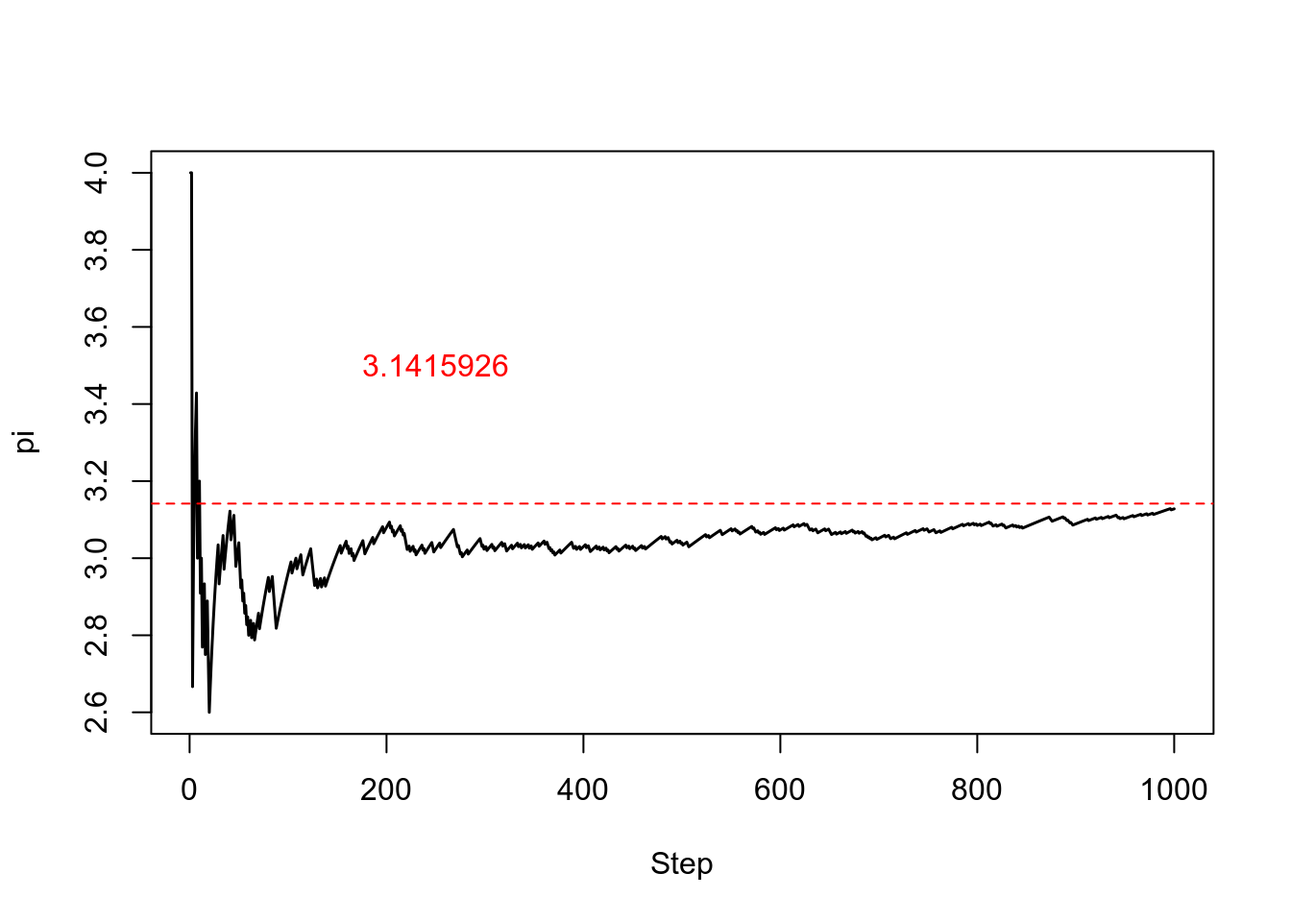
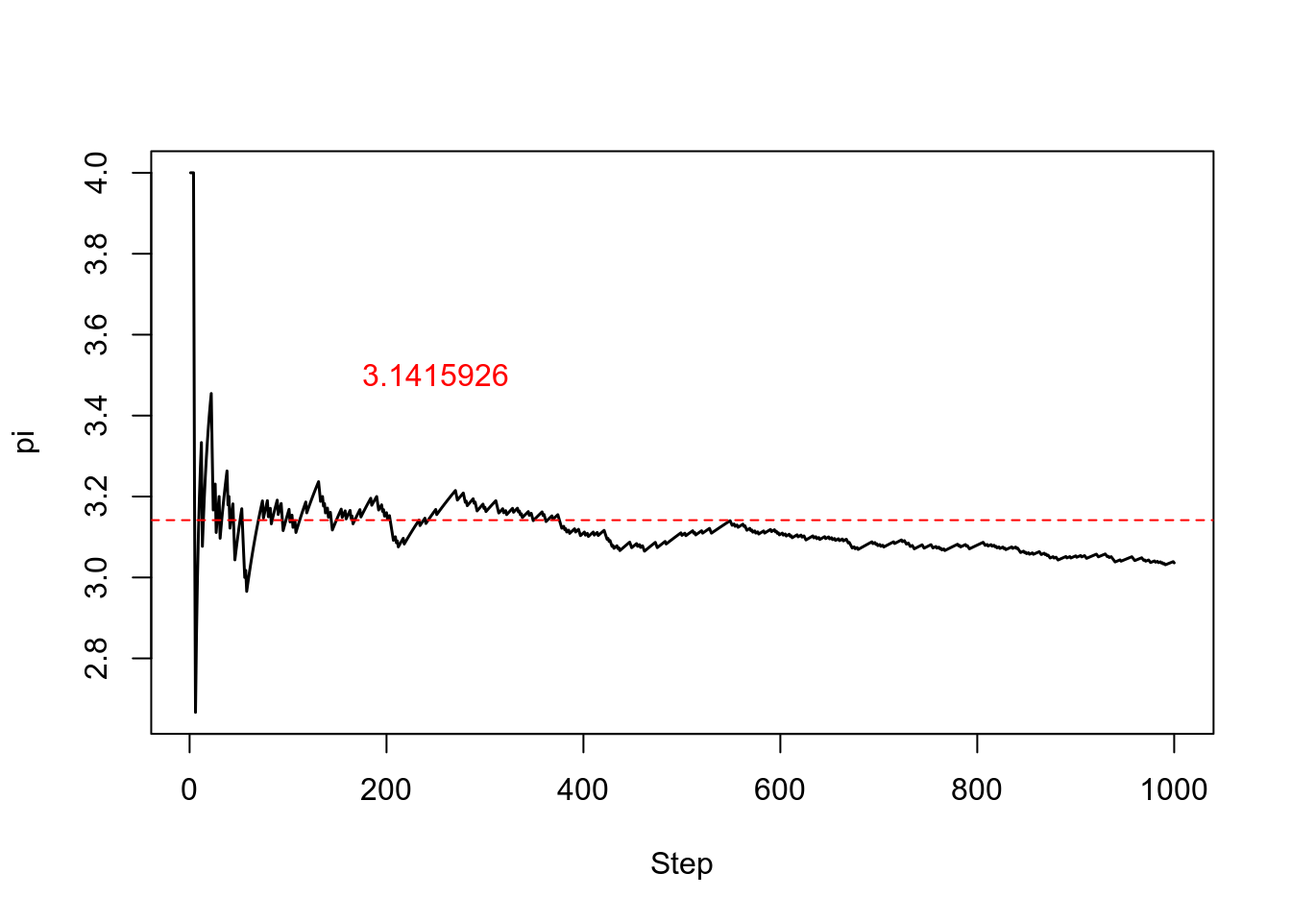
Update AS01 to avoid ambiguity.

diff --git a/docs/Section_02.html b/docs/Section_02.html
@@ -787,126 +787,126 @@ div.tocify {
 <a class="sourceLine" id="cb101-4" data-line-number="4">    <span class="kw">print</span>(<span class="kw">paste</span>(Daily_T,Hourly_T))</a>
 <a class="sourceLine" id="cb101-5" data-line-number="5">  }</a>
 <a class="sourceLine" id="cb101-6" data-line-number="6">}</a></code></pre></div>
-<pre><code>## [1] &quot;28 24.6748426553519&quot;
-## [1] &quot;28 22.9760693341376&quot;
-## [1] &quot;28 28.1668392788644&quot;
-## [1] &quot;28 24.6829324971358&quot;
-## [1] &quot;28 29.7757983186248&quot;
-## [1] &quot;28 22.1394675936212&quot;
-## [1] &quot;28 24.1820479194424&quot;
-## [1] &quot;28 22.7102929698775&quot;
-## [1] &quot;28 24.2689232048204&quot;
-## [1] &quot;28 29.7273757413843&quot;
-## [1] &quot;28 28.4814041481975&quot;
-## [1] &quot;28 30.8381319679711&quot;
-## [1] &quot;28 26.7968213473296&quot;
-## [1] &quot;28 32.6290605154618&quot;
-## [1] &quot;28 31.0473241153248&quot;
-## [1] &quot;28 17.8178765438713&quot;
-## [1] &quot;28 26.8503923194964&quot;
-## [1] &quot;28 26.6129683742051&quot;
-## [1] &quot;28 24.3036329344183&quot;
-## [1] &quot;28 28.6087747062707&quot;
-## [1] &quot;28 28.6791264028529&quot;
-## [1] &quot;28 26.6940887449461&quot;
-## [1] &quot;28 24.3523082033908&quot;
-## [1] &quot;28 34.1343566762418&quot;
-## [1] &quot;27 28.4058829001241&quot;
-## [1] &quot;27 29.5544922101698&quot;
-## [1] &quot;27 29.5984627835436&quot;
-## [1] &quot;27 28.2448822396052&quot;
-## [1] &quot;27 26.7516599820223&quot;
-## [1] &quot;27 18.5139039824796&quot;
-## [1] &quot;27 32.3990865590278&quot;
-## [1] &quot;27 37.2973810862669&quot;
-## [1] &quot;27 36.29726933232&quot;
-## [1] &quot;27 32.529717107269&quot;
-## [1] &quot;27 18.5966021782224&quot;
-## [1] &quot;27 17.5570436818532&quot;
-## [1] &quot;27 24.8168687196831&quot;
-## [1] &quot;27 28.4081215680623&quot;
-## [1] &quot;27 30.0752058033662&quot;
-## [1] &quot;27 19.0486279825942&quot;
-## [1] &quot;27 23.8308318937906&quot;
-## [1] &quot;27 23.0096504954306&quot;
-## [1] &quot;27 30.2079908629194&quot;
-## [1] &quot;27 42.2036996178281&quot;
-## [1] &quot;27 31.6874638433255&quot;
-## [1] &quot;27 23.3757211920033&quot;
-## [1] &quot;27 22.2492012353042&quot;
-## [1] &quot;27 36.5132641049091&quot;
-## [1] &quot;28 33.4273399548902&quot;
-## [1] &quot;28 22.8727731019217&quot;
-## [1] &quot;28 18.5495469869752&quot;
-## [1] &quot;28 33.3796695987491&quot;
-## [1] &quot;28 24.2963211190113&quot;
-## [1] &quot;28 24.6434628363984&quot;
-## [1] &quot;28 33.4164615493461&quot;
-## [1] &quot;28 33.4976786771971&quot;
-## [1] &quot;28 29.982513599848&quot;
-## [1] &quot;28 22.6906707084625&quot;
-## [1] &quot;28 25.4752659513245&quot;
-## [1] &quot;28 24.4757335877513&quot;
-## [1] &quot;28 33.1331815583744&quot;
-## [1] &quot;28 22.1406958511202&quot;
-## [1] &quot;28 24.8907138406681&quot;
-## [1] &quot;28 24.6173693440048&quot;
-## [1] &quot;28 28.5034989318076&quot;
-## [1] &quot;28 36.2423498235031&quot;
-## [1] &quot;28 18.0162228358158&quot;
-## [1] &quot;28 28.2563525092646&quot;
-## [1] &quot;28 24.5093187242121&quot;
-## [1] &quot;28 28.0852273211659&quot;
-## [1] &quot;28 27.6908677292802&quot;
-## [1] &quot;28 29.3674958477796&quot;
-## [1] &quot;26 24.8147408614787&quot;
-## [1] &quot;26 29.8019450697114&quot;
-## [1] &quot;26 26.6431852209115&quot;
-## [1] &quot;26 23.7854078799578&quot;
-## [1] &quot;26 19.7615886099545&quot;
-## [1] &quot;26 30.2736348046912&quot;
-## [1] &quot;26 24.1359341006909&quot;
-## [1] &quot;26 23.0636244215911&quot;
-## [1] &quot;26 28.5421929889363&quot;
-## [1] &quot;26 21.5571819032698&quot;
-## [1] &quot;26 27.6843964038016&quot;
-## [1] &quot;26 13.4405915029052&quot;
-## [1] &quot;26 21.9131351640834&quot;
-## [1] &quot;26 34.6336275459184&quot;
-## [1] &quot;26 37.2107505731586&quot;
-## [1] &quot;26 30.1847426869357&quot;
-## [1] &quot;26 26.7107860646127&quot;
-## [1] &quot;26 21.8941098756902&quot;
-## [1] &quot;26 23.7087758808354&quot;
-## [1] &quot;26 30.5485933541258&quot;
-## [1] &quot;26 23.0866042896505&quot;
-## [1] &quot;26 24.4033466224744&quot;
-## [1] &quot;26 19.2725006440214&quot;
-## [1] &quot;26 17.7636790167569&quot;
-## [1] &quot;27 22.4565542740719&quot;
-## [1] &quot;27 29.1812539937702&quot;
-## [1] &quot;27 29.9817319457167&quot;
-## [1] &quot;27 28.8909937193477&quot;
-## [1] &quot;27 24.7202551580626&quot;
-## [1] &quot;27 24.2748894318419&quot;
-## [1] &quot;27 21.3401103954107&quot;
-## [1] &quot;27 28.5146083884275&quot;
-## [1] &quot;27 23.0050943379477&quot;
-## [1] &quot;27 24.7899110044655&quot;
-## [1] &quot;27 21.6698963945238&quot;
-## [1] &quot;27 20.7963045388319&quot;
-## [1] &quot;27 27.574858768277&quot;
-## [1] &quot;27 27.3012149126371&quot;
-## [1] &quot;27 31.3321920586931&quot;
-## [1] &quot;27 28.6431556480933&quot;
-## [1] &quot;27 20.020147307677&quot;
-## [1] &quot;27 21.3171993774541&quot;
-## [1] &quot;27 24.1002024463396&quot;
-## [1] &quot;27 18.687283359045&quot;
-## [1] &quot;27 29.7290389267263&quot;
-## [1] &quot;27 29.3756646234934&quot;
-## [1] &quot;27 35.4128152822396&quot;
-## [1] &quot;27 20.4043393921517&quot;</code></pre>
+<pre><code>## [1] &quot;28 40.7589551560254&quot;
+## [1] &quot;28 31.774615150442&quot;
+## [1] &quot;28 18.0949197969618&quot;
+## [1] &quot;28 28.1942835828804&quot;
+## [1] &quot;28 19.804028639058&quot;
+## [1] &quot;28 29.4662902622486&quot;
+## [1] &quot;28 39.4598932088304&quot;
+## [1] &quot;28 33.7288811493609&quot;
+## [1] &quot;28 25.5558521090769&quot;
+## [1] &quot;28 23.4081581832236&quot;
+## [1] &quot;28 29.1983852403656&quot;
+## [1] &quot;28 20.0817482845498&quot;
+## [1] &quot;28 31.774975893687&quot;
+## [1] &quot;28 28.8538375183689&quot;
+## [1] &quot;28 26.9829320866638&quot;
+## [1] &quot;28 38.4506100131821&quot;
+## [1] &quot;28 31.2668587856441&quot;
+## [1] &quot;28 36.6454669868765&quot;
+## [1] &quot;28 34.5733461244075&quot;
+## [1] &quot;28 18.8477977658143&quot;
+## [1] &quot;28 41.2872097360636&quot;
+## [1] &quot;28 26.3640590334181&quot;
+## [1] &quot;28 18.9587978407791&quot;
+## [1] &quot;28 21.9732875544527&quot;
+## [1] &quot;27 27.8994501618399&quot;
+## [1] &quot;27 18.4274823880049&quot;
+## [1] &quot;27 17.487437027998&quot;
+## [1] &quot;27 29.1566220497035&quot;
+## [1] &quot;27 24.3864966186695&quot;
+## [1] &quot;27 30.6312328582105&quot;
+## [1] &quot;27 25.5633098161982&quot;
+## [1] &quot;27 28.3565032535012&quot;
+## [1] &quot;27 22.9111423558042&quot;
+## [1] &quot;27 37.0104290570566&quot;
+## [1] &quot;27 24.7248381984514&quot;
+## [1] &quot;27 27.5481189653534&quot;
+## [1] &quot;27 30.5327020938654&quot;
+## [1] &quot;27 23.5399345272812&quot;
+## [1] &quot;27 26.4523185352965&quot;
+## [1] &quot;27 25.1287921427691&quot;
+## [1] &quot;27 30.576745220784&quot;
+## [1] &quot;27 27.7208460890087&quot;
+## [1] &quot;27 28.3860313272459&quot;
+## [1] &quot;27 22.3716969655068&quot;
+## [1] &quot;27 29.2017516181573&quot;
+## [1] &quot;27 25.6909429386729&quot;
+## [1] &quot;27 16.779136398876&quot;
+## [1] &quot;27 32.2362306548539&quot;
+## [1] &quot;28 30.4989968243666&quot;
+## [1] &quot;28 37.689196380333&quot;
+## [1] &quot;28 31.3016056245316&quot;
+## [1] &quot;28 20.0093734532773&quot;
+## [1] &quot;28 26.9704176748697&quot;
+## [1] &quot;28 30.1193039703216&quot;
+## [1] &quot;28 28.4723046872677&quot;
+## [1] &quot;28 26.5637823913892&quot;
+## [1] &quot;28 37.7782792758438&quot;
+## [1] &quot;28 33.0132099533378&quot;
+## [1] &quot;28 29.6482378474295&quot;
+## [1] &quot;28 16.1194381569752&quot;
+## [1] &quot;28 21.8613217535879&quot;
+## [1] &quot;28 25.3490193460458&quot;
+## [1] &quot;28 34.3247521426383&quot;
+## [1] &quot;28 11.8291705076343&quot;
+## [1] &quot;28 25.0916998662451&quot;
+## [1] &quot;28 28.5094802988344&quot;
+## [1] &quot;28 32.9073404950099&quot;
+## [1] &quot;28 31.3966589168912&quot;
+## [1] &quot;28 26.2302070460784&quot;
+## [1] &quot;28 21.9869933901705&quot;
+## [1] &quot;28 23.3172915224961&quot;
+## [1] &quot;28 24.3762357939405&quot;
+## [1] &quot;26 26.6964401195701&quot;
+## [1] &quot;26 22.071833499076&quot;
+## [1] &quot;26 25.2526523327834&quot;
+## [1] &quot;26 25.731171086427&quot;
+## [1] &quot;26 32.1713414572198&quot;
+## [1] &quot;26 30.5547262095795&quot;
+## [1] &quot;26 29.9414544306396&quot;
+## [1] &quot;26 20.1856275907956&quot;
+## [1] &quot;26 24.9049311722464&quot;
+## [1] &quot;26 33.618922458823&quot;
+## [1] &quot;26 26.621086763811&quot;
+## [1] &quot;26 20.8803080940772&quot;
+## [1] &quot;26 29.556871975238&quot;
+## [1] &quot;26 31.8292816727826&quot;
+## [1] &quot;26 32.2553838694461&quot;
+## [1] &quot;26 17.7914797029011&quot;
+## [1] &quot;26 27.9390149189956&quot;
+## [1] &quot;26 26.4795260442578&quot;
+## [1] &quot;26 26.2531236280767&quot;
+## [1] &quot;26 31.337010395406&quot;
+## [1] &quot;26 22.8950674555426&quot;
+## [1] &quot;26 27.4303573453362&quot;
+## [1] &quot;26 36.3650995882546&quot;
+## [1] &quot;26 22.8170384934694&quot;
+## [1] &quot;27 26.662250919257&quot;
+## [1] &quot;27 33.6004508819266&quot;
+## [1] &quot;27 30.3039194689821&quot;
+## [1] &quot;27 26.446853317052&quot;
+## [1] &quot;27 29.3601989403985&quot;
+## [1] &quot;27 33.5603834910526&quot;
+## [1] &quot;27 29.4880395275099&quot;
+## [1] &quot;27 33.4909610227258&quot;
+## [1] &quot;27 30.3191306992055&quot;
+## [1] &quot;27 24.8579870944271&quot;
+## [1] &quot;27 20.187721405541&quot;
+## [1] &quot;27 28.5488767087359&quot;
+## [1] &quot;27 28.3862344452235&quot;
+## [1] &quot;27 25.866476004331&quot;
+## [1] &quot;27 15.9563150880982&quot;
+## [1] &quot;27 25.5495362224263&quot;
+## [1] &quot;27 34.8455641121824&quot;
+## [1] &quot;27 27.7115383346833&quot;
+## [1] &quot;27 35.5430651000855&quot;
+## [1] &quot;27 30.3856507008125&quot;
+## [1] &quot;27 30.0093475511949&quot;
+## [1] &quot;27 14.7242187252879&quot;
+## [1] &quot;27 21.9392107260631&quot;
+## [1] &quot;27 37.5508143868809&quot;</code></pre>
 <p>Here at each <code>Hour</code> we use the <code>rnorm()</code> function to generate <code>1</code> random Gaussian sample with a mean of <code>Daily_T</code> and a standard deviation of <code>5</code>.</p>
 <p>We notice in the output that when the first index (<code>Daily_T</code>) is set to <code>28</code>, the second index (<code>Hour</code>) iterates through its full set of indices. Once the indices of <code>Hour</code> have been iterated through, then <code>Daily_T</code> moves to the next one (<em>i.e.</em>, <code>27</code>). This process continues until the last index has been used for each <code>for()</code> loop.</p>
 <p>Rather than printing the results, we could write the loop output to a new <em>object</em>:</p>
@@ -920,26 +920,26 @@ div.tocify {
 <a class="sourceLine" id="cb103-8" data-line-number="8">}</a>
 <a class="sourceLine" id="cb103-9" data-line-number="9"></a>
 <a class="sourceLine" id="cb103-10" data-line-number="10"><span class="kw">print</span>(Output_List)</a></code></pre></div>
-<pre><code>##   [1] &quot;28 25.5382476981644&quot; &quot;28 18.5922317102663&quot; &quot;28 29.1673638799961&quot; &quot;28 35.2791484178937&quot; &quot;28 35.7048443590231&quot; &quot;28 30.3835904881598&quot;
-##   [7] &quot;28 33.3198534225594&quot; &quot;28 38.9494276720216&quot; &quot;28 31.1648056421161&quot; &quot;28 35.2832729526617&quot; &quot;28 29.4105567696399&quot; &quot;28 25.2404905254197&quot;
-##  [13] &quot;28 27.3703702104265&quot; &quot;28 29.5383574600471&quot; &quot;28 34.0749752329725&quot; &quot;28 28.1263176050263&quot; &quot;28 19.8376475014073&quot; &quot;28 34.2021026586768&quot;
-##  [19] &quot;28 28.85289542261&quot;   &quot;28 20.9905898746867&quot; &quot;28 31.2624613736288&quot; &quot;28 24.8747364716445&quot; &quot;28 22.9577067913413&quot; &quot;28 32.7715746817422&quot;
-##  [25] &quot;27 28.2189556729185&quot; &quot;27 22.0188713437173&quot; &quot;27 26.542497559793&quot;  &quot;27 24.6948547083624&quot; &quot;27 29.1506757425688&quot; &quot;27 22.1409917311045&quot;
-##  [31] &quot;27 32.8418909284523&quot; &quot;27 23.9131430891967&quot; &quot;27 29.4665668131182&quot; &quot;27 22.5467613411918&quot; &quot;27 26.4045705197218&quot; &quot;27 17.6396509551202&quot;
-##  [37] &quot;27 20.8392648893065&quot; &quot;27 17.6044855128785&quot; &quot;27 26.6639827734368&quot; &quot;27 19.1742703590138&quot; &quot;27 21.0786042346996&quot; &quot;27 27.5898687287901&quot;
-##  [43] &quot;27 26.7527652927903&quot; &quot;27 32.11080679831&quot;   &quot;27 24.206250211025&quot;  &quot;27 29.4804447693811&quot; &quot;27 29.8176929725518&quot; &quot;27 40.9280915302788&quot;
-##  [49] &quot;28 25.1353594836045&quot; &quot;28 32.1908310598306&quot; &quot;28 27.8515215156236&quot; &quot;28 38.0705549729503&quot; &quot;28 24.8311242611064&quot; &quot;28 27.2091167962215&quot;
-##  [55] &quot;28 33.1483932294019&quot; &quot;28 27.0718592405111&quot; &quot;28 20.6573252861879&quot; &quot;28 25.5760203665862&quot; &quot;28 26.3419346678252&quot; &quot;28 30.0120118105046&quot;
-##  [61] &quot;28 28.0948753384398&quot; &quot;28 37.0398728955921&quot; &quot;28 34.8892243875017&quot; &quot;28 27.1610335942563&quot; &quot;28 28.6831721210223&quot; &quot;28 31.5665800601721&quot;
-##  [67] &quot;28 22.4431616326634&quot; &quot;28 16.8324614989451&quot; &quot;28 28.370611500531&quot;  &quot;28 24.7011539337729&quot; &quot;28 31.152821405816&quot;  &quot;28 30.2999364288137&quot;
-##  [73] &quot;26 26.8372374568991&quot; &quot;26 24.6895808072312&quot; &quot;26 16.9506501198537&quot; &quot;26 29.8481101721447&quot; &quot;26 23.2105793832554&quot; &quot;26 22.0386264666559&quot;
-##  [79] &quot;26 39.5360853294595&quot; &quot;26 17.3089352245812&quot; &quot;26 29.7383681424268&quot; &quot;26 34.3325547790076&quot; &quot;26 32.4877569225098&quot; &quot;26 21.2457756609466&quot;
-##  [85] &quot;26 16.8280110099269&quot; &quot;26 24.4342399299425&quot; &quot;26 29.9831591881363&quot; &quot;26 30.0226719840988&quot; &quot;26 23.1221078896617&quot; &quot;26 26.4668881989614&quot;
-##  [91] &quot;26 19.6103935036684&quot; &quot;26 29.1190743336868&quot; &quot;26 27.0172488555174&quot; &quot;26 13.2784958599806&quot; &quot;26 29.1422953967561&quot; &quot;26 24.5058822801336&quot;
-##  [97] &quot;27 29.3606749688517&quot; &quot;27 25.3943854545593&quot; &quot;27 20.2802906230757&quot; &quot;27 33.1516069308692&quot; &quot;27 29.6630188007049&quot; &quot;27 30.092684159125&quot; 
-## [103] &quot;27 37.6322431101923&quot; &quot;27 23.3827497001165&quot; &quot;27 18.5165407137277&quot; &quot;27 28.0890872665759&quot; &quot;27 30.0296895881624&quot; &quot;27 31.4135168193088&quot;
-## [109] &quot;27 33.8522696324962&quot; &quot;27 28.048988808605&quot;  &quot;27 32.3345941364601&quot; &quot;27 31.0434213202404&quot; &quot;27 17.225552881968&quot;  &quot;27 17.5127278355104&quot;
-## [115] &quot;27 26.5884303324847&quot; &quot;27 17.9244258212039&quot; &quot;27 29.2957500234117&quot; &quot;27 25.3948895089587&quot; &quot;27 19.96016476176&quot;   &quot;27 23.6926870862324&quot;</code></pre>
+<pre><code>##   [1] &quot;28 31.5734150000142&quot; &quot;28 27.5022249991058&quot; &quot;28 30.657416728051&quot;  &quot;28 23.3361719975117&quot; &quot;28 28.5267994544673&quot; &quot;28 26.3584766380814&quot;
+##   [7] &quot;28 28.6106436953855&quot; &quot;28 27.8973195015525&quot; &quot;28 29.0204005022991&quot; &quot;28 30.0441268916544&quot; &quot;28 25.2507192176428&quot; &quot;28 29.9184639438866&quot;
+##  [13] &quot;28 28.8506298098281&quot; &quot;28 31.0110061955132&quot; &quot;28 32.5092298082838&quot; &quot;28 31.0595162902123&quot; &quot;28 24.8294490800912&quot; &quot;28 38.4579032470055&quot;
+##  [19] &quot;28 33.9372836188107&quot; &quot;28 29.2171573546916&quot; &quot;28 22.8132517442971&quot; &quot;28 27.1776879524193&quot; &quot;28 27.9846462690597&quot; &quot;28 26.0919317475669&quot;
+##  [25] &quot;27 23.2499543527617&quot; &quot;27 18.8442150763596&quot; &quot;27 15.0890814159222&quot; &quot;27 29.709465696173&quot;  &quot;27 25.1718612504657&quot; &quot;27 24.6451865002346&quot;
+##  [31] &quot;27 30.2517299657602&quot; &quot;27 24.135050789566&quot;  &quot;27 25.9127487663616&quot; &quot;27 26.223725600355&quot;  &quot;27 32.7178864034129&quot; &quot;27 29.3386244726537&quot;
+##  [37] &quot;27 31.5640437605559&quot; &quot;27 22.7568114008343&quot; &quot;27 30.6481821097599&quot; &quot;27 29.8894886246727&quot; &quot;27 25.8316956674824&quot; &quot;27 17.1057018834264&quot;
+##  [43] &quot;27 31.9359805785313&quot; &quot;27 23.5960300256995&quot; &quot;27 28.4970516840866&quot; &quot;27 29.3902525571513&quot; &quot;27 24.4840886577793&quot; &quot;27 22.6274694950281&quot;
+##  [49] &quot;28 29.4416440590505&quot; &quot;28 29.1441667025203&quot; &quot;28 34.8377118723128&quot; &quot;28 32.0431600729188&quot; &quot;28 32.3494629369177&quot; &quot;28 23.3702050690666&quot;
+##  [55] &quot;28 29.4795929869848&quot; &quot;28 25.8168236859186&quot; &quot;28 29.1113384611029&quot; &quot;28 15.6390886900679&quot; &quot;28 25.2034200025769&quot; &quot;28 22.8635890090448&quot;
+##  [61] &quot;28 16.1576635265858&quot; &quot;28 28.1095663797811&quot; &quot;28 29.1600773397872&quot; &quot;28 26.0173572188808&quot; &quot;28 24.5864422218197&quot; &quot;28 29.753596828616&quot; 
+##  [67] &quot;28 24.442073473949&quot;  &quot;28 22.8590424980024&quot; &quot;28 21.9899443228486&quot; &quot;28 17.5610338664615&quot; &quot;28 24.951672663567&quot;  &quot;28 27.5845799748938&quot;
+##  [73] &quot;26 30.6644876184161&quot; &quot;26 23.1932930790132&quot; &quot;26 21.5879586287778&quot; &quot;26 29.452001957141&quot;  &quot;26 23.0728854042155&quot; &quot;26 25.7965898473385&quot;
+##  [79] &quot;26 28.910681059317&quot;  &quot;26 36.080080822032&quot;  &quot;26 29.9888618655186&quot; &quot;26 26.6656902521292&quot; &quot;26 17.2767195383575&quot; &quot;26 26.9733316363068&quot;
+##  [85] &quot;26 19.2680359053164&quot; &quot;26 22.7682590989539&quot; &quot;26 26.9605335971886&quot; &quot;26 28.5595599983311&quot; &quot;26 29.8726558415731&quot; &quot;26 30.572227054296&quot; 
+##  [91] &quot;26 26.0907278836887&quot; &quot;26 19.8647430377318&quot; &quot;26 25.1935445913897&quot; &quot;26 17.8909312696047&quot; &quot;26 26.5133787653235&quot; &quot;26 21.0190039367554&quot;
+##  [97] &quot;27 25.5735672859762&quot; &quot;27 22.7329072303377&quot; &quot;27 20.2042539524547&quot; &quot;27 30.8009640152042&quot; &quot;27 28.8709779029998&quot; &quot;27 29.0236918617264&quot;
+## [103] &quot;27 27.9130034714171&quot; &quot;27 26.6910526736517&quot; &quot;27 21.3765483045996&quot; &quot;27 26.6368284042143&quot; &quot;27 24.5252326241914&quot; &quot;27 28.3904027700644&quot;
+## [109] &quot;27 42.0421248062608&quot; &quot;27 24.5714081208057&quot; &quot;27 22.5082613063047&quot; &quot;27 27.1990463988964&quot; &quot;27 27.9252953255837&quot; &quot;27 25.020812741479&quot; 
+## [115] &quot;27 29.8698142105561&quot; &quot;27 23.8299666036966&quot; &quot;27 24.641982133195&quot;  &quot;27 27.9476919815067&quot; &quot;27 21.8273698448123&quot; &quot;27 24.1251451122298&quot;</code></pre>
 <p>This approach can be useful, but “growing your results” (building the result object incrementally) is <strong>computationally inefficient</strong>, so avoid it when you are iterating through a lot of values.</p>
 <p><strong>Important</strong>: One of the biggest things that trips up novices and experienced R users alike, is building a results object (<em>vector</em>, <em>list</em>, <em>matrix</em>, <em>data frame</em>) as your for loop progresses. Computers are very bad at handling this, so your calculations can very quickly slow to a crawl. It’s much better to define an <strong>empty results object</strong> beforehand of appropriate dimensions, rather than initializing an empty object without dimensions. So if you know the end result will be stored in a matrix-like above, create an empty matrix with <code>5</code> row and <code>24</code> columns, then at each iteration stores the results in the appropriate location.</p>
 <div class="sourceCode" id="cb105"><pre class="sourceCode r"><code class="sourceCode r"><a class="sourceLine" id="cb105-1" data-line-number="1">Output_Matrix    &lt;-<span class="st"> </span><span class="kw">matrix</span>(<span class="dt">nrow=</span><span class="dv">5</span>, <span class="dt">ncol=</span><span class="dv">24</span>)</a>
@@ -953,26 +953,26 @@ div.tocify {
 <a class="sourceLine" id="cb105-9" data-line-number="9">}</a>
 <a class="sourceLine" id="cb105-10" data-line-number="10">Output_Matrix2 &lt;-<span class="st"> </span><span class="kw">as.vector</span>(Output_Matrix)</a>
 <a class="sourceLine" id="cb105-11" data-line-number="11">Output_Matrix2</a></code></pre></div>
-<pre><code>##   [1] &quot;28 21.2165760135291&quot; &quot;27 25.9514323279598&quot; &quot;28 35.5258438783188&quot; &quot;26 38.4576860532867&quot; &quot;27 38.5453763853417&quot; &quot;28 17.9357892505674&quot;
-##   [7] &quot;27 30.4405166751853&quot; &quot;28 26.2368816488623&quot; &quot;26 29.1818990123236&quot; &quot;27 34.4869229883971&quot; &quot;28 25.8751646548445&quot; &quot;27 30.9201901895751&quot;
-##  [13] &quot;28 27.8566794929573&quot; &quot;26 26.1065528891808&quot; &quot;27 20.4428255091359&quot; &quot;28 36.7225069445997&quot; &quot;27 23.9297903488568&quot; &quot;28 30.9702796620553&quot;
-##  [19] &quot;26 34.907717183471&quot;  &quot;27 22.9628046519526&quot; &quot;28 22.7854214735212&quot; &quot;27 30.6790866304337&quot; &quot;28 38.2619918764906&quot; &quot;26 21.9584854088209&quot;
-##  [25] &quot;27 27.9467491703342&quot; &quot;28 36.4367502935527&quot; &quot;27 36.2178876497619&quot; &quot;28 31.9752896139985&quot; &quot;26 28.4827047134607&quot; &quot;27 20.8523701577335&quot;
-##  [31] &quot;28 29.6181809012252&quot; &quot;27 27.8521976872486&quot; &quot;28 25.8322894981311&quot; &quot;26 28.6789490532495&quot; &quot;27 28.9452641863989&quot; &quot;28 27.6531415677177&quot;
-##  [37] &quot;27 30.2215952736498&quot; &quot;28 27.3636860228183&quot; &quot;26 25.4072710794851&quot; &quot;27 31.6369823683567&quot; &quot;28 28.4165527501361&quot; &quot;27 21.4469784415962&quot;
-##  [43] &quot;28 19.332658150674&quot;  &quot;26 18.664313891737&quot;  &quot;27 27.2768956134282&quot; &quot;28 27.4580367659053&quot; &quot;27 36.326209695127&quot;  &quot;28 25.8077812583142&quot;
-##  [49] &quot;26 32.8073796178668&quot; &quot;27 28.2088570479365&quot; &quot;28 30.4877041903009&quot; &quot;27 31.094284977441&quot;  &quot;28 35.158726738129&quot;  &quot;26 26.818318904519&quot; 
-##  [55] &quot;27 27.2139988401661&quot; &quot;28 28.5617919959287&quot; &quot;27 35.8897960450221&quot; &quot;28 31.3714741786565&quot; &quot;26 22.7371227673878&quot; &quot;27 25.3161228046527&quot;
-##  [61] &quot;28 28.2785760302995&quot; &quot;27 25.4038685598197&quot; &quot;28 39.3490194724258&quot; &quot;26 27.1061751906286&quot; &quot;27 29.007193926382&quot;  &quot;28 27.0966576393862&quot;
-##  [67] &quot;27 34.0762721083638&quot; &quot;28 23.6124037539865&quot; &quot;26 27.6448216186488&quot; &quot;27 20.4055006044696&quot; &quot;28 29.0202547654588&quot; &quot;27 21.6712346333544&quot;
-##  [73] &quot;28 38.2009809952535&quot; &quot;26 31.4555894511372&quot; &quot;27 28.182722966742&quot;  &quot;28 32.594540738299&quot;  &quot;27 29.5190771433986&quot; &quot;28 20.675629416958&quot; 
-##  [79] &quot;26 26.426499347281&quot;  &quot;27 26.7336047018532&quot; &quot;28 21.2770686227264&quot; &quot;27 16.1417705141727&quot; &quot;28 34.9181021253509&quot; &quot;26 22.3741666560965&quot;
-##  [85] &quot;27 30.3978983582351&quot; &quot;28 21.3260591789631&quot; &quot;27 25.3811242101598&quot; &quot;28 22.2853402578542&quot; &quot;26 17.6079410216276&quot; &quot;27 29.2382615099&quot;   
-##  [91] &quot;28 27.529529699713&quot;  &quot;27 25.7237917300235&quot; &quot;28 28.7479576445047&quot; &quot;26 21.5097025208353&quot; &quot;27 29.7790912530701&quot; &quot;28 30.1987213658507&quot;
-##  [97] &quot;27 22.0860256886125&quot; &quot;28 24.0363704564593&quot; &quot;26 30.6704083054032&quot; &quot;27 23.0456818377588&quot; &quot;28 27.4093097872708&quot; &quot;27 18.2244777961315&quot;
-## [103] &quot;28 22.9825789838444&quot; &quot;26 14.251976226984&quot;  &quot;27 29.8875856370035&quot; &quot;28 33.5417082674455&quot; &quot;27 28.5032297651312&quot; &quot;28 34.4373177910098&quot;
-## [109] &quot;26 25.5439936805089&quot; &quot;27 24.5600362811288&quot; &quot;28 29.4072182291475&quot; &quot;27 22.9957828180336&quot; &quot;28 33.6599244403764&quot; &quot;26 17.9720764896793&quot;
-## [115] &quot;27 30.1266424211097&quot; &quot;28 20.5162713384325&quot; &quot;27 29.4547327469171&quot; &quot;28 28.9711719963422&quot; &quot;26 30.3439588500068&quot; &quot;27 36.6955053058216&quot;</code></pre>
+<pre><code>##   [1] &quot;28 23.5808267368339&quot; &quot;27 11.3854264183814&quot; &quot;28 30.4542948363432&quot; &quot;26 28.7456417778477&quot; &quot;27 18.3532401204355&quot; &quot;28 26.9661319204734&quot;
+##   [7] &quot;27 31.6537165969944&quot; &quot;28 30.0290214453625&quot; &quot;26 19.9277475305789&quot; &quot;27 24.025264518854&quot;  &quot;28 25.5770859275547&quot; &quot;27 20.7699760520299&quot;
+##  [13] &quot;28 28.1621070995967&quot; &quot;26 24.991519959916&quot;  &quot;27 24.6151436332116&quot; &quot;28 30.5145241943009&quot; &quot;27 35.6687376724168&quot; &quot;28 26.2127123729946&quot;
+##  [19] &quot;26 29.4938167840115&quot; &quot;27 32.9811547460832&quot; &quot;28 24.999261483793&quot;  &quot;27 22.7438571398334&quot; &quot;28 23.5535387781683&quot; &quot;26 30.8803010935961&quot;
+##  [25] &quot;27 25.4411410273557&quot; &quot;28 26.7611639609444&quot; &quot;27 27.8391255512618&quot; &quot;28 32.9666952544294&quot; &quot;26 20.4673784730439&quot; &quot;27 32.1619965663484&quot;
+##  [31] &quot;28 24.2860041288146&quot; &quot;27 26.9208865149129&quot; &quot;28 27.4956476029246&quot; &quot;26 21.387775284222&quot;  &quot;27 21.2610983007832&quot; &quot;28 29.5406298505705&quot;
+##  [37] &quot;27 18.0225377068173&quot; &quot;28 35.6706008347816&quot; &quot;26 32.2096000530152&quot; &quot;27 18.5519154705413&quot; &quot;28 22.8724889762071&quot; &quot;27 20.7725155095319&quot;
+##  [43] &quot;28 28.9604235086322&quot; &quot;26 26.6347027463707&quot; &quot;27 29.7786111462053&quot; &quot;28 28.9504299962519&quot; &quot;27 21.211187750397&quot;  &quot;28 28.5859516156419&quot;
+##  [49] &quot;26 24.2126958758429&quot; &quot;27 21.3272665986642&quot; &quot;28 32.0728424303093&quot; &quot;27 33.72980436645&quot;   &quot;28 32.6741028536385&quot; &quot;26 27.9626031887934&quot;
+##  [55] &quot;27 25.814953395019&quot;  &quot;28 23.047272415768&quot;  &quot;27 25.5212776104494&quot; &quot;28 17.1654150850399&quot; &quot;26 33.7996853372884&quot; &quot;27 15.867376732127&quot; 
+##  [61] &quot;28 33.9410758855637&quot; &quot;27 27.5713860257483&quot; &quot;28 30.5983778404404&quot; &quot;26 29.9587692777702&quot; &quot;27 30.3635847929303&quot; &quot;28 28.759267494097&quot; 
+##  [67] &quot;27 33.5616234473669&quot; &quot;28 23.2135783260074&quot; &quot;26 36.4274993036015&quot; &quot;27 29.9351782007958&quot; &quot;28 31.6188813863936&quot; &quot;27 25.2704802904793&quot;
+##  [73] &quot;28 33.1541295939175&quot; &quot;26 27.9721830961635&quot; &quot;27 24.9560797944305&quot; &quot;28 26.2038403449394&quot; &quot;27 29.2935330273681&quot; &quot;28 13.0724405945387&quot;
+##  [79] &quot;26 32.2356811286521&quot; &quot;27 33.7993935483948&quot; &quot;28 23.9666001608838&quot; &quot;27 27.0617026821852&quot; &quot;28 29.1755195911879&quot; &quot;26 21.2757258792437&quot;
+##  [85] &quot;27 22.6764096146864&quot; &quot;28 34.2890225880758&quot; &quot;27 20.6374552502302&quot; &quot;28 27.8248647598322&quot; &quot;26 24.2645738135271&quot; &quot;27 29.215833079737&quot; 
+##  [91] &quot;28 20.2286085062239&quot; &quot;27 33.1183581065798&quot; &quot;28 27.3638084909985&quot; &quot;26 29.4778641081011&quot; &quot;27 32.1582320815387&quot; &quot;28 31.0382472445303&quot;
+##  [97] &quot;27 37.806670607423&quot;  &quot;28 26.6403067396272&quot; &quot;26 25.1846598528894&quot; &quot;27 30.0512963024999&quot; &quot;28 16.3387588138693&quot; &quot;27 31.4198171169445&quot;
+## [103] &quot;28 31.6573799970707&quot; &quot;26 41.5157760651205&quot; &quot;27 30.9928947002839&quot; &quot;28 35.0534427620916&quot; &quot;27 25.1411723946164&quot; &quot;28 29.5190451310007&quot;
+## [109] &quot;26 22.7661348323985&quot; &quot;27 15.3081166223106&quot; &quot;28 34.1148457480204&quot; &quot;27 38.8087028577362&quot; &quot;28 31.3750761407514&quot; &quot;26 24.667016686986&quot; 
+## [115] &quot;27 25.2669960425856&quot; &quot;28 30.9618982601062&quot; &quot;27 20.4767036528014&quot; &quot;28 34.438345791381&quot;  &quot;26 24.0899905232007&quot; &quot;27 18.0389894555535&quot;</code></pre>
 <p>Here we use <code>matrix()</code> to create an empty matrix with <code>5</code> rows and <code>24</code> columns, and use <code>as.vector()</code> to convert the <code>5x24</code> matrix into a vector with a length of <code>120</code>.</p>
 <p>Sometimes you will find yourself needing to repeat an operation as long as a certain condition is met. You can do this with a <code>while()</code> loop.</p>
 <div class="sourceCode" id="cb107"><pre class="sourceCode r"><code class="sourceCode r"><a class="sourceLine" id="cb107-1" data-line-number="1">z &lt;-<span class="st"> </span><span class="dv">0</span></a>
@@ -1097,11 +1097,11 @@ div.tocify {
 <a class="sourceLine" id="cb113-9" data-line-number="9"><span class="kw">print</span>(<span class="st">&quot;How many students pass:&quot;</span>)</a></code></pre></div>
 <pre><code>## [1] &quot;How many students pass:&quot;</code></pre>
 <div class="sourceCode" id="cb115"><pre class="sourceCode r"><code class="sourceCode r"><a class="sourceLine" id="cb115-1" data-line-number="1"><span class="kw">print</span>(PassStudents)</a></code></pre></div>
-<pre><code>## [1] 18</code></pre>
+<pre><code>## [1] 14</code></pre>
 <div class="sourceCode" id="cb117"><pre class="sourceCode r"><code class="sourceCode r"><a class="sourceLine" id="cb117-1" data-line-number="1"><span class="kw">print</span>(<span class="st">&quot;Pass ratio is:&quot;</span>)</a></code></pre></div>
 <pre><code>## [1] &quot;Pass ratio is:&quot;</code></pre>
 <div class="sourceCode" id="cb119"><pre class="sourceCode r"><code class="sourceCode r"><a class="sourceLine" id="cb119-1" data-line-number="1"><span class="kw">print</span>(PassStudents<span class="op">/</span>TotalStudents)</a></code></pre></div>
-<pre><code>## [1] 0.45</code></pre>
+<pre><code>## [1] 0.35</code></pre>
 <ul>
 <li>Can you explain what this script does? Use the following flowchart <a href="#fn6" class="footnote-ref" id="fnref6"><sup>6</sup></a> for help.</li>
 </ul>

diff --git a/docs/Section_01.html b/docs/Section_01.html
@@ -737,7 +737,7 @@ Hopefully, this course will make your life easier when it comes to interpret and
 <a class="sourceLine" id="cb2-7" data-line-number="7"><span class="kw">text</span>(<span class="fl">0.25</span><span class="op">*</span>TotalDraw,<span class="fl">3.5</span>,<span class="st">&quot;3.1415926&quot;</span>,<span class="dt">cex=</span><span class="dv">1</span>,<span class="dt">col=</span><span class="st">&quot;red&quot;</span>)</a></code></pre></div>
 <p><img src="Section_01_files/figure-html/unnamed-chunk-2-1.png" width="672" /></p>
 <div class="sourceCode" id="cb3"><pre class="sourceCode r"><code class="sourceCode r"><a class="sourceLine" id="cb3-1" data-line-number="1"><span class="kw">print</span>(<span class="kw">paste</span>(<span class="st">&quot;Mean Pi from the last 100 steps is: &quot;</span>,<span class="kw">mean</span>(Results[TotalDraw<span class="dv">-99</span><span class="op">:</span>TotalDraw])))</a></code></pre></div>
-<pre><code>## [1] &quot;Mean Pi from the last 100 steps is:  3.03832522321562&quot;</code></pre>
+<pre><code>## [1] &quot;Mean Pi from the last 100 steps is:  3.12115568998785&quot;</code></pre>
 <p>Simulation with 100,000 random points yields a better result</p>
 <div class="sourceCode" id="cb5"><pre class="sourceCode r"><code class="sourceCode r"><a class="sourceLine" id="cb5-1" data-line-number="1"><span class="co"># Draw 1E5 points</span></a>
 <a class="sourceLine" id="cb5-2" data-line-number="2">TotalDraw &lt;-<span class="st"> </span><span class="fl">1E5</span></a>
@@ -748,7 +748,7 @@ Hopefully, this course will make your life easier when it comes to interpret and
 <a class="sourceLine" id="cb5-7" data-line-number="7"><span class="kw">text</span>(<span class="fl">0.25</span><span class="op">*</span>TotalDraw,<span class="fl">3.5</span>,<span class="st">&quot;3.1415926&quot;</span>,<span class="dt">cex=</span><span class="dv">1</span>,<span class="dt">col=</span><span class="st">&quot;red&quot;</span>)</a></code></pre></div>
 <p><img src="Section_01_files/figure-html/unnamed-chunk-3-1.png" width="672" /></p>
 <div class="sourceCode" id="cb6"><pre class="sourceCode r"><code class="sourceCode r"><a class="sourceLine" id="cb6-1" data-line-number="1"><span class="kw">print</span>(<span class="kw">paste</span>(<span class="st">&quot;Mean Pi from the last 100 steps is: &quot;</span>,<span class="kw">mean</span>(Results[TotalDraw<span class="dv">-99</span><span class="op">:</span>TotalDraw])))</a></code></pre></div>
-<pre><code>## [1] &quot;Mean Pi from the last 100 steps is:  3.1382410017671&quot;</code></pre>
+<pre><code>## [1] &quot;Mean Pi from the last 100 steps is:  3.14384083590378&quot;</code></pre>
 <hr />
 </div>
 </div>

diff --git a/docs/Assignment_01.html b/docs/Assignment_01.html
@@ -448,7 +448,7 @@ Submit your scripts and report via GitHub. The submission time will be determine
 <li>Pass all quality control checks: <code>VISIBILITY-OBSERVATION distance quality code</code> is <code>1</code>, <code>VISIBILITY-OBSERVATION variability code</code> is <code>N</code>, and <code>VISIBILITY-OBSERVATION quality variability code</code> is <code>1</code>.</li>
 </ul>
 <p><strong>6.1 [15 points]</strong> Plot hourly visibility data as a function of the observation time, similar to the time series plot you made in <a href="https://zhu-group.github.io/ese5023/Section_03.html#Exercise_3">Exercise #3</a>. Based on your naked eyes, is there a trend in visibility during the past 10 years?</p>
-<p><strong>6.2 [10 points]</strong> For each year, report the number of days with visibility within the following intervals: <code>[0,5)</code>,<code>[5,10)</code>,<code>[10,15)</code>,<code>[15,20)</code>,<code>[20,25)</code>,<code>[25,30)</code>, and <code>&gt;=30</code>. Is the visibility getting better or worse?</p>
+<p><strong>6.2 [10 points]</strong> For each year, report the number of days with visibility within the respective interval: <code>[0,5km)</code>,<code>[5km,10km)</code>,<code>[10km,15km)</code>,<code>[15km,20km)</code>,<code>[20km,25km)</code>,<code>[25km,30km)</code>, and <code>&gt;=30km</code>. Is the visibility getting better or worse?</p>
 <hr />
 </div>
 <div id="explore-a-data-set" class="section level1">
